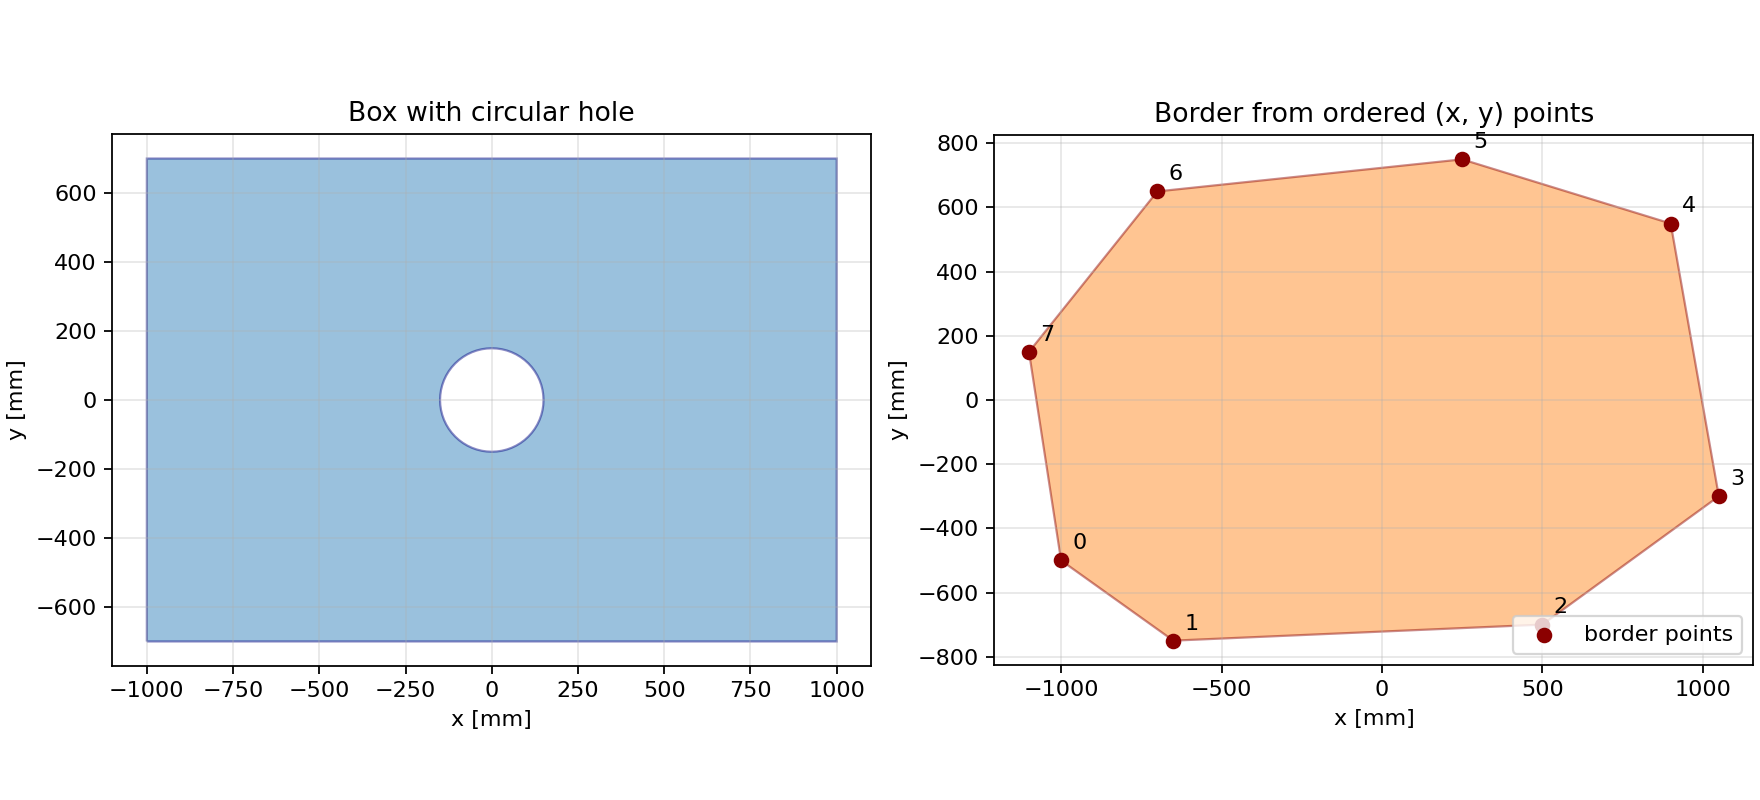
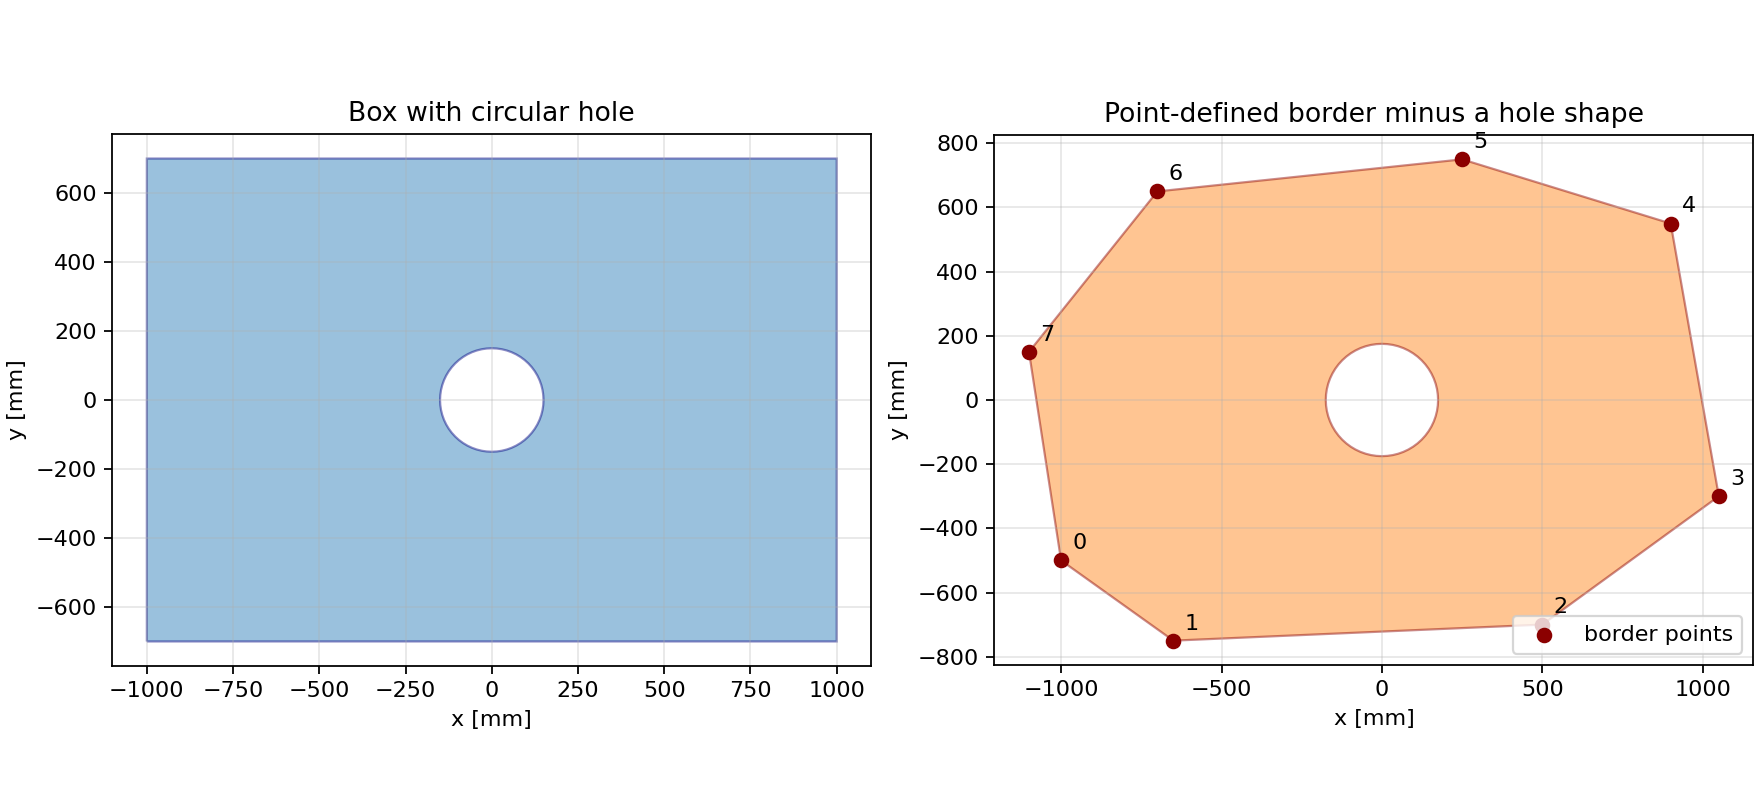
Support hole shapes in point-defined polygons

Changed region(s): [[0.75, 0.4062, 0.8438, 0.5938], [0.625, 0.125, 0.9375, 0.1562]]

diff --git a/src/xyshapes_detectors/geometry_io.py b/src/xyshapes_detectors/geometry_io.py
@@ -43,12 +43,13 @@ def box_with_hole(width, height, *, hole_width=None, hole_height=None,
     return shape
 
 
-def polygon_from_points(border, *, holes=None):
+def polygon_from_points(border, *, hole=None, holes=None):
     """Create an XY acceptance from ordered border points.
 
     ``border`` is an iterable of at least three ``(x, y)`` points. Shapely
-    closes the final edge automatically. ``holes`` may contain additional
-    point sequences describing excluded regions.
+    closes the final edge automatically. ``hole`` may be any Shapely geometry
+    to subtract. ``holes`` may contain point sequences describing excluded
+    polygonal regions.
     """
     border = list(border)
     holes = [list(hole) for hole in holes] if holes is not None else None
@@ -60,6 +61,10 @@ def polygon_from_points(border, *, holes=None):
     shape = Polygon(border, holes=holes)
     if shape.is_empty or not shape.is_valid or shape.area <= 0:
         raise ValueError("the points do not define a valid polygon")
+    if hole is not None:
+        if hole.is_empty or not hole.is_valid or not shape.contains(hole):
+            raise ValueError("the hole must be a valid geometry inside the border")
+        shape = shape.difference(hole)
     return shape
 
 

diff --git a/examples/box_circle_and_points.py b/examples/box_circle_and_points.py
@@ -7,6 +7,7 @@ import matplotlib
 
 matplotlib.use("Agg")
 import matplotlib.pyplot as plt
+from shapely.geometry import Point
 from shapely.plotting import plot_polygon
 
 from xyshapes_detectors import box_with_hole, dump_geometries, polygon_from_points
@@ -27,7 +28,8 @@ def build_examples():
         (-700, 650),
         (-1100, 150),
     ]
-    point_shape = polygon_from_points(border_points)
+    point_border_hole = Point(0, 0).buffer(175)
+    point_shape = polygon_from_points(border_points, hole=point_border_hole)
     return box_shape, point_shape, border_points
 
 
@@ -56,7 +58,7 @@ def main():
     axes[1].scatter(xs, ys, color="darkred", zorder=3, label="border points")
     for index, point in enumerate(border_points):
         axes[1].annotate(str(index), point, xytext=(5, 5), textcoords="offset points")
-    axes[1].set_title("Border from ordered (x, y) points")
+    axes[1].set_title("Point-defined border minus a hole shape")
     axes[1].legend(loc="lower right")
 
     for axis in axes:

diff --git a/tests/test_geometries.py b/tests/test_geometries.py
@@ -50,6 +50,19 @@ class GeometryTests(unittest.TestCase):
         self.assertFalse(shape.contains(Point(0, 0)))
         self.assertEqual(len(shape.interiors), 1)
 
+    def test_polygon_from_points_subtracts_hole_shape(self):
+        border = [(-10, -10), (10, -10), (10, 10), (-10, 10)]
+        hole_shape = Point(0, 0).buffer(2)
+        shape = polygon_from_points(border, hole=hole_shape)
+        self.assertFalse(shape.contains(Point(0, 0)))
+        self.assertEqual(len(shape.interiors), 1)
+        self.assertAlmostEqual(shape.area, 400 - hole_shape.area)
+
+    def test_hole_shape_must_be_inside_border(self):
+        border = [(-10, -10), (10, -10), (10, 10), (-10, 10)]
+        with self.assertRaises(ValueError):
+            polygon_from_points(border, hole=Point(10, 0).buffer(2))
+
     def test_invalid_box_dimensions(self):
         invalid = (
             {"width": 0, "height": 10},

diff --git a/README.md b/README.md
@@ -50,7 +50,7 @@ A complete runnable version is in
 
 ## Sketch: circular hole versus point-defined border
 
-![Box with a circular hole and an arbitrary point-defined border](docs/geometry_examples.png)
+![A box with a circular hole and a point-defined border with a subtracted hole](docs/geometry_examples.png)
 
 For a box with a circular hole:
 
@@ -69,6 +69,7 @@ For an arbitrary border, list the `(x, y)` corners in order while walking
 around its perimeter. The closing point does not need to be repeated:
 
 ```python
+from shapely.geometry import Point
 from xyshapes_detectors import dump_geometries, polygon_from_points
 
 border_points = [
@@ -82,11 +83,14 @@ border_points = [
     (-1100, 150),
 ]
 
-shape = polygon_from_points(border_points)
+# The hole can be any valid Shapely geometry inside the border.
+hole_shape = Point(0, 0).buffer(175)
+shape = polygon_from_points(border_points, hole=hole_shape)
 dump_geometries({"PointDefinedBorder": shape}, "shapes")
 ```
 
-Point-defined holes are also supported. Each hole is another ordered border:
+Point-defined holes are also supported. Each hole is another ordered border,
+and can be used instead of `hole=`:
 
 ```python
 outer = [(-100, -100), (100, -100), (100, 100), (-100, 100)]
